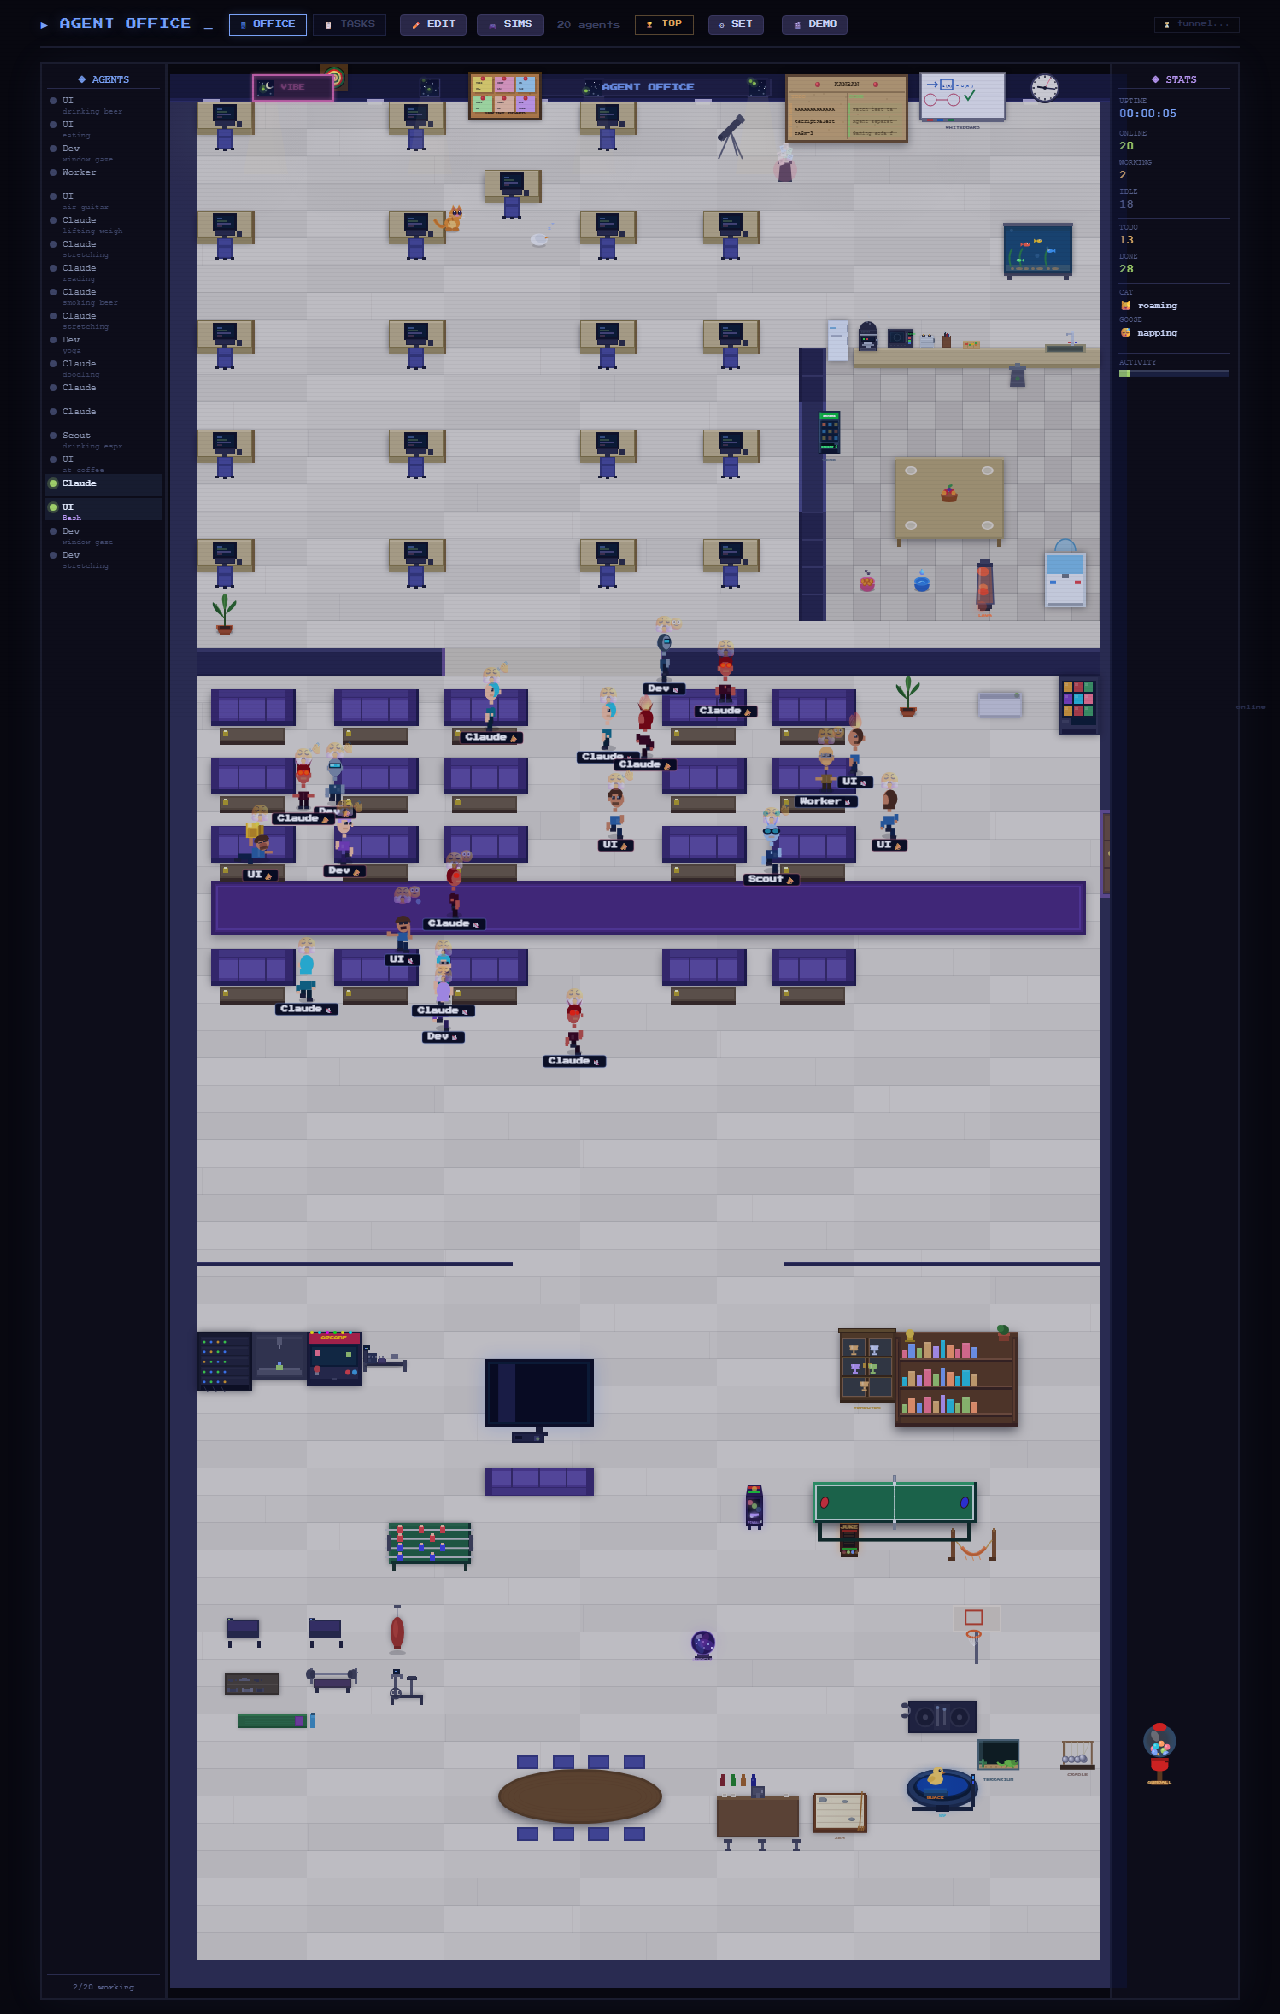
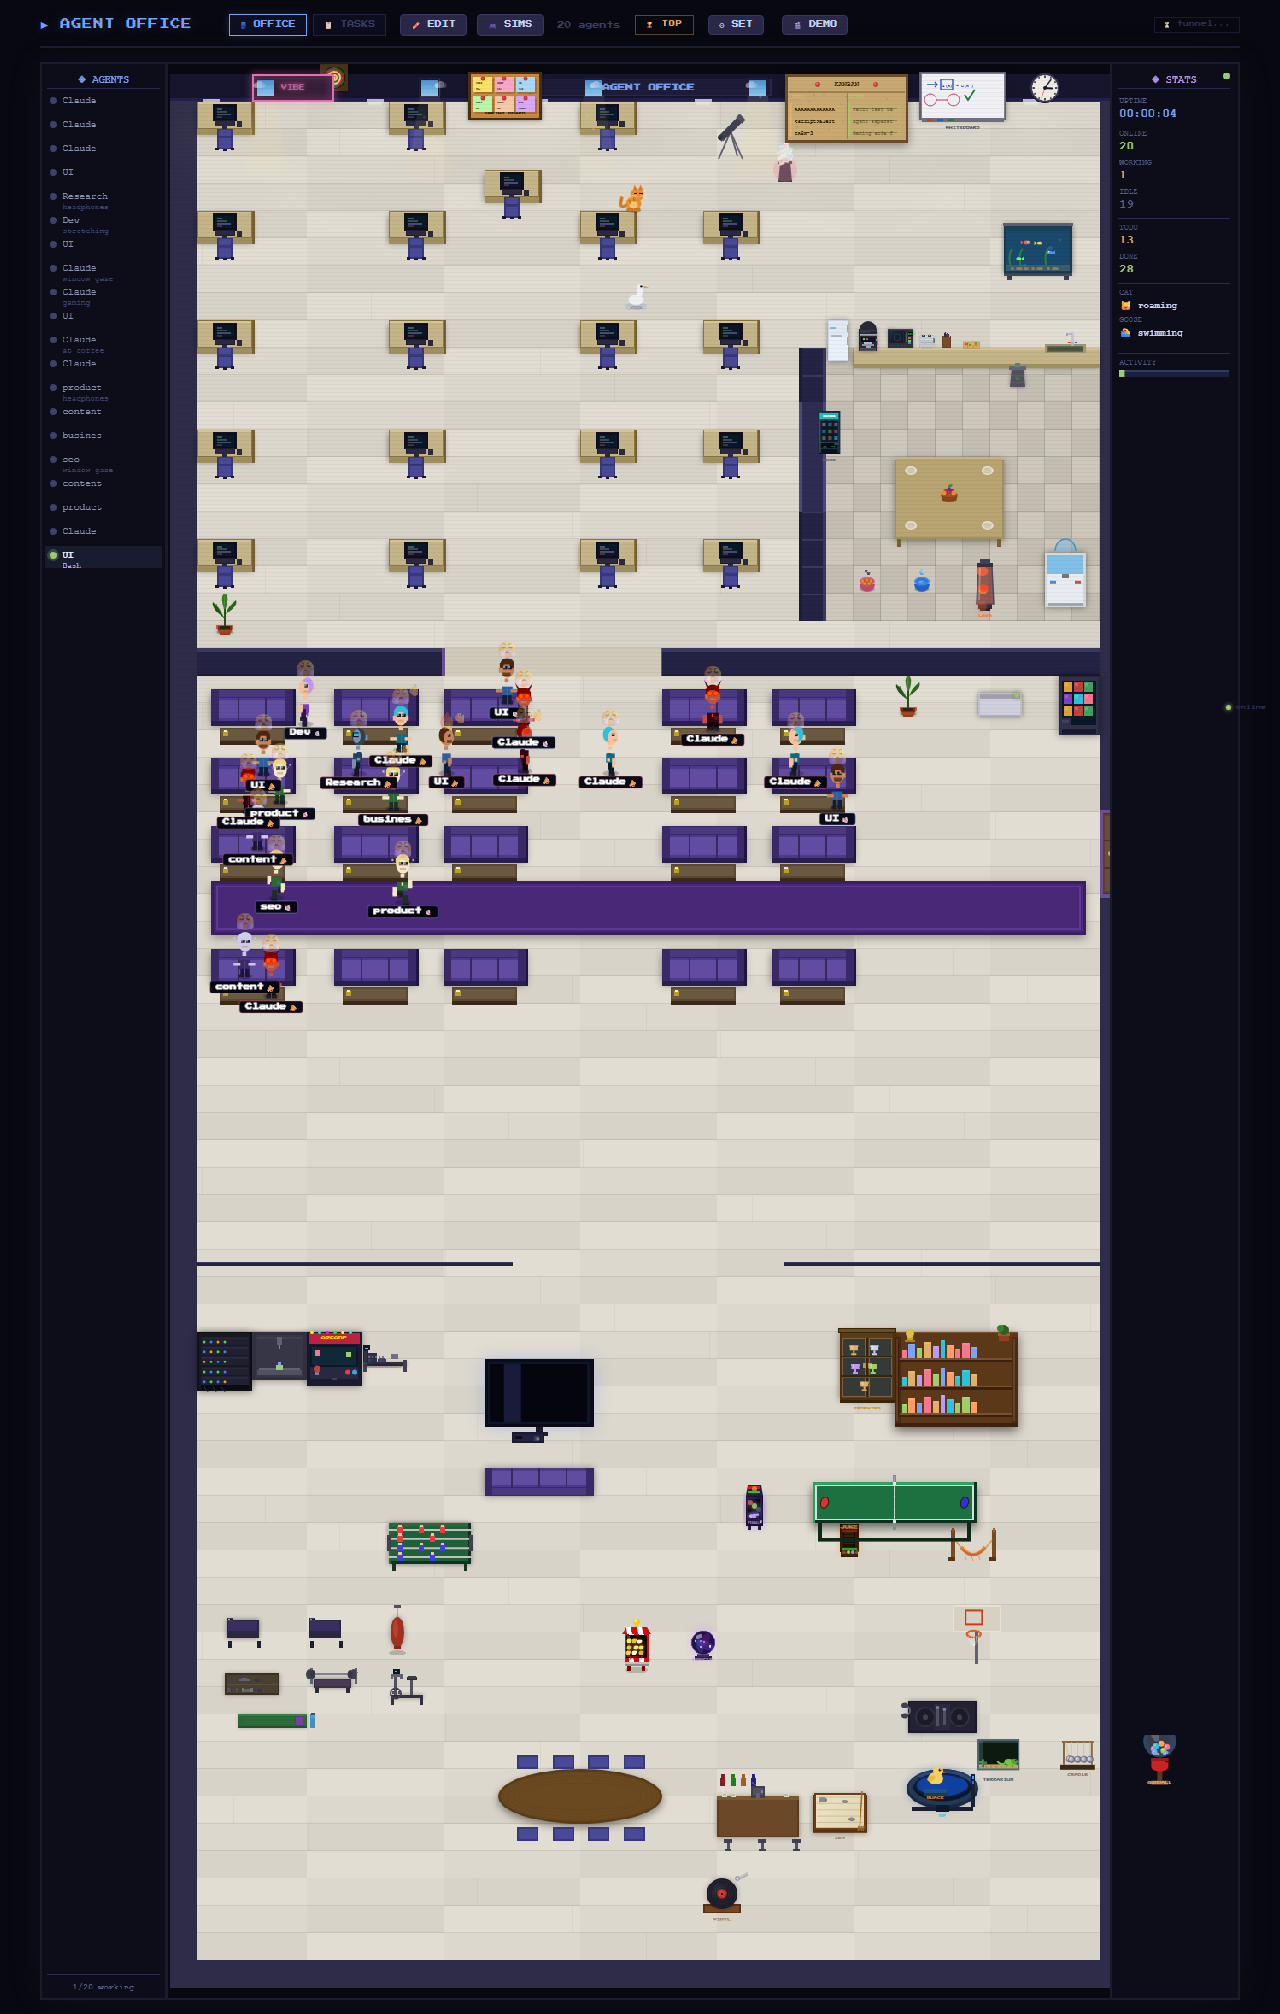
chore: update test artifacts and add detached start script

diff --git a/playwright-report/index.html b/playwright-report/index.html
@@ -82,4 +82,4 @@ Error generating stack: `+a.message+`
     <div id='root'></div>
   </body>
 </html>
[2 lines of base64/hex data omitted]